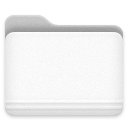
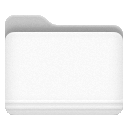
update(bigsur): reimplemented shadows

Changed region(s): [[0.0312, 0.8438, 0.9688, 0.9375]]

diff --git a/src/components/folder/folder-render.jsx b/src/components/folder/folder-render.jsx
@@ -83,7 +83,10 @@ export default function FolderRender({ folderSize, key, id }) {
   };
 
   const getIconShadow = () => {
-    if ((folderType === "win10") & (folderSize > 24)) {
+    if (
+      (folderType === "win10") & (folderSize > 24) ||
+      folderType === "bigsur"
+    ) {
       return `shadow`;
     } else {
       return `base`;
@@ -219,7 +222,10 @@ export default function FolderRender({ folderSize, key, id }) {
       ctx.drawImage(highlightImg, 0, 0, width, height);
 
       // Draw shadow
-      if (folderType === "win10" && folderSize > 24) {
+      if (
+        (folderType === "win10" && folderSize > 24) ||
+        folderType === "bigsur"
+      ) {
         ctx.globalCompositeOperation = "source-over";
         ctx.drawImage(shadowImg, 0, 0, width, height);
       }
